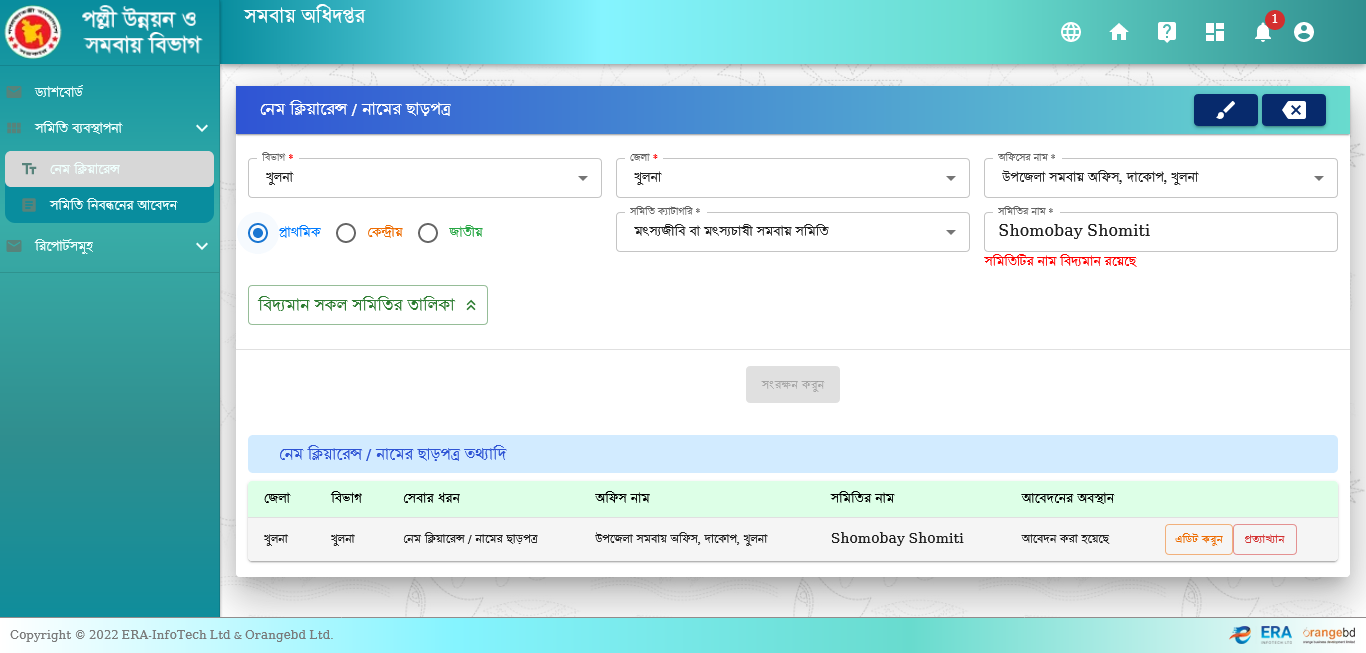
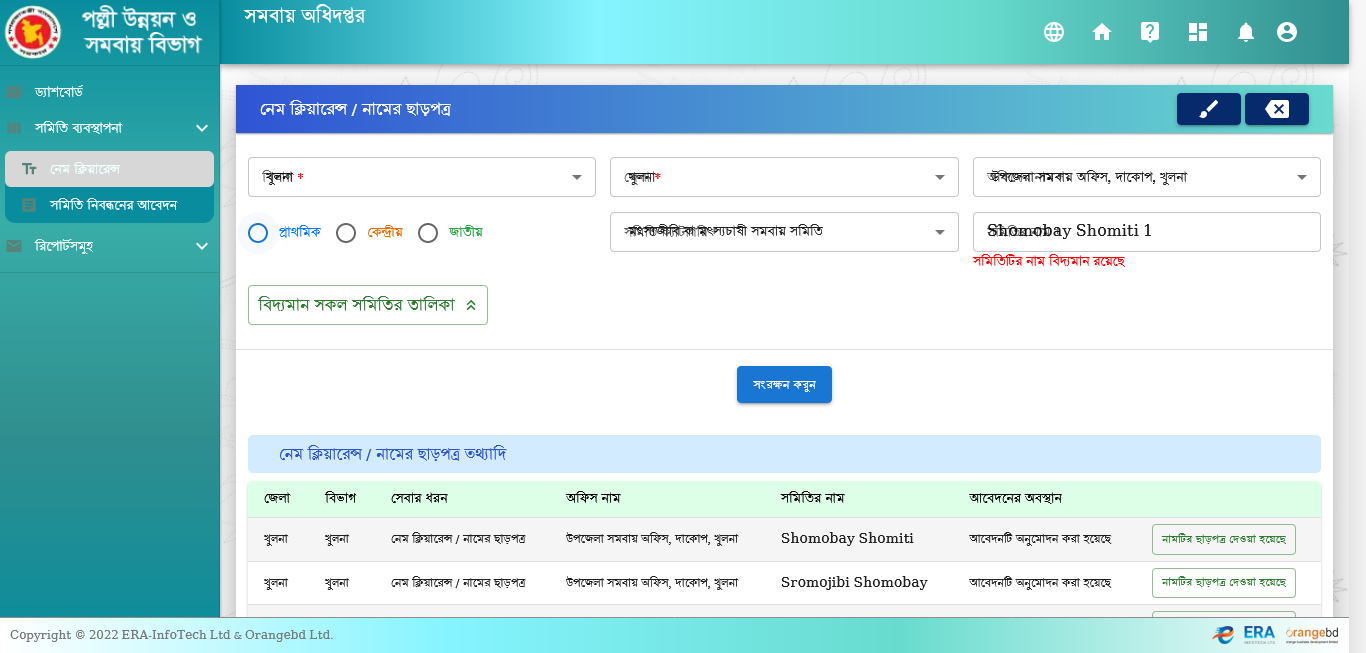
shomiti approve module updated

diff --git a/src/test/java/com/RDCD/All_RDCD.java b/src/test/java/com/RDCD/All_RDCD.java
@@ -25,7 +25,6 @@ public class All_RDCD extends BaseClass {
     @BeforeClass
     public static void LaunchBrowser(){
         FirefoxLaunch();
-        //OpenWebsite("http://10.11.200.30:5001/login");
         OpenWebsite("http://rdcd.erainfotechbd.com:5005/login");
     }
 
@@ -50,37 +49,23 @@ public class All_RDCD extends BaseClass {
 
         Menu_NameClearance();
 
-        //Divisions
-        WebElement division = driver.findElement(By.name("division"));
-        Select select1 = new Select(division);
-        select1.selectByValue("2451");
+        SelectByVisibleText("division","খুলনা"); //Divisions
 
-        //District
-        WebElement district = driver.findElement(By.name("district"));
-        Select select2 = new Select(district);
-        select2.selectByValue("5104");
+        SelectByVisibleText("district","খুলনা"); //District
 
-        //Office Name
-        WebElement office = driver.findElement(By.id("mui-17"));
-        Select select3 = new Select(office);
-        select3.selectByValue("216");
+        SelectByVisibleText("upazila","উপজেলা সমবায় অফিস, দাকোপ, খুলনা"); //Office Name
 
-        //Organization Category
-        WebElement org = driver.findElement(By.id("mui-18"));
-        Select select4 = new Select(org);
-        select4.selectByValue("2");
-
-        //driver.findElement(By.id("mui-19")).sendKeys("Shomobay Shomiti");
+        SelectByVisibleText("samityTypeId","মৎস্যজীবি বা মৎস্যচাষী সমবায় সমিতি"); //Organization Category
 
         WebElement name = driver.findElement(By.id("mui-19"));
         String text = name.getAttribute("value");
 
         if(text.isEmpty()){
-            name.sendKeys("Shomobay Shomiti");
+            name.sendKeys("Shomobay Shomiti 1");
         }
         else{
             name.clear();
-            name.sendKeys("Shomobay Shomiti 1");
+            name.sendKeys("Shomobay Shomiti 2");
         }
 
         List<WebElement> user = driver.findElements(By.name("samityLevel"));
@@ -106,11 +91,12 @@ public class All_RDCD extends BaseClass {
         for(int l = 1; l<= tr; l++){
 
             String shomitiName = driver.findElement(By.xpath("/html/body/div[1]/main/div[1]/div/div/div/div/div/div[3]/div[2]/table/tbody/tr["+l+"]/td[5]")).getText();
-            System.out.println(shomitiName);
+            //System.out.println(shomitiName);
+            //System.out.println("Value of l is " +l);
 
             if(shomitiName.equals("Shomobay Shomiti 1")){
 
-                WebElement cancel = driver.findElement(By.cssSelector("button.MuiButton-outlined:nth-child(2)"));
+                WebElement cancel = driver.findElement(By.xpath("/html/body/div[1]/main/div[1]/div/div/div/div/div/div[3]/div[2]/table/tbody/tr["+l+"]/td[7]/button[2]"));
                 JavascriptExecutor executor1 = (JavascriptExecutor)driver;
                 executor1.executeScript("arguments[0].click();", cancel);
 
@@ -124,6 +110,55 @@ public class All_RDCD extends BaseClass {
             }
             else{
                 System.out.println("Shomiti doesnot match");
+            }
+        }
+    }
+
+    @Test(description = "This is shomiti approve scenario", priority =3, enabled = true)
+    public static void Shomiti_Approve() throws InterruptedException {
+        WebDriverWait wait = new WebDriverWait(driver, Duration.ofSeconds(20));
+        SmallWait();
+        FindElementByXpath("(.//*[@data-testid='AccountCircleIcon'])[1]");
+
+        SmallWait();
+        FindElementByXpath("//li[text()=' লগ-আউট']");
+
+        SmallWait();
+        FindElementByID_Details("email","dacope_uco");
+        FindElementByID_Details("password","1234");
+        SelectRadioboxByName("isAdmin","2");
+        driver.findElement(By.cssSelector("button.MuiButton-root:nth-child(4)")).click();
+
+        driver.manage().timeouts().implicitlyWait(Duration.ofSeconds(10));
+
+        CheckCurrentUrl("http://rdcd.erainfotechbd.com:5005/dashboard");
+
+        SmallWait();
+        Menu_Approve();
+
+        int tr = driver.findElements(By.xpath("/html/body/div[1]/main/div[1]/div/div/div/div/div/div[2]/div/div/div[2]/table/tbody/tr")).size();
+        System.out.println(tr);
+        for(int l = 1; l<= tr; l++){
+
+            String shomitiName = driver.findElement(By.xpath("/html/body/div[1]/main/div[1]/div/div/div/div/div/div[2]/div/div/div[2]/table/tbody/tr["+l+"]/td[2]")).getText();
+            System.out.println(shomitiName);
+            System.out.println(l);
+
+            if(shomitiName.equals("Test_Fahim_2")){
+
+                SmallWait();
+                FindElementByXpath("/html/body/div[1]/main/div[1]/div/div/div/div/div/div[2]/div/div/div[2]/table/tbody/tr["+l+"]/td[4]/button");
+
+                driver.manage().timeouts().implicitlyWait(Duration.ofSeconds(10));
+
+                LongWait();
+                SelectByVisibleText("serviceActionId","অনুমোদন");
+
+                LongWait();
+                wait.until(ExpectedConditions.elementToBeClickable(By.xpath("//*[@type='button' and @aria-label='সংরক্ষন করুন']"))).click();
+            }
+            else{
+                System.out.println("Shomiti doesnot exist");
             }
         }
     }
@@ -675,7 +710,7 @@ public class All_RDCD extends BaseClass {
         CheckNextUrl("http://rdcd.erainfotechbd.com:5005/samity-management/coop/samity-reg-report");
     }
 
-    @Test(description = "This is for shomiti create(churanto data somuho) scenario", priority =12, enabled = true)
+    @Test(description = "This is for shomiti create(churanto data somuho) scenario", priority =12, enabled = false)
     public static void Churanto_Data_Somuho() throws InterruptedException {
         Menu_ShomitiCreate();
 

diff --git a/src/main/java/com/BaseClass/BaseClass.java b/src/main/java/com/BaseClass/BaseClass.java
@@ -82,7 +82,14 @@ public class BaseClass {
         driver.findElement(By.xpath("//span[text()='সমিতি নিবন্ধনের আবেদন']")).click();
     }
 
-    public static void FindElementByID(String id){driver.findElement(By.id(id)).click();}
+    public static void Menu_Approve() throws InterruptedException {
+        SmallWait();
+
+        driver.findElement(By.xpath("//span[text()='অনুমোদন']")).click();
+    }
+
+    public static void FindElementByID_Click(String id){driver.findElement(By.id(id)).click();}
+    public static void FindElementByID_Details(String id, String details){driver.findElement(By.id(id)).sendKeys(details);}
 
     public static void FindElementByName(String name){driver.findElement(By.name(name)).click();}
     public static void FindElementByName(String name, String details){
